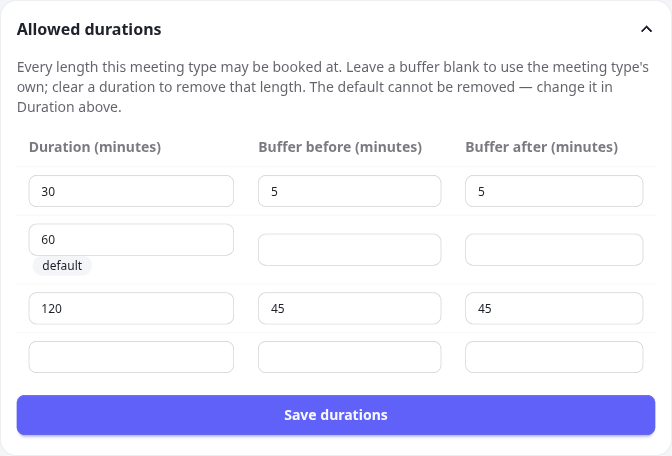
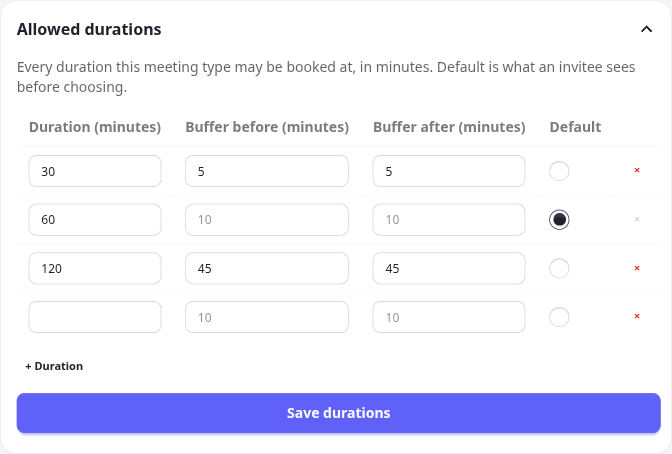
docs: the durations editor now adds rows and picks the default
The editor gained a + Duration button, a × per row, and a Default
radio, so the instructions describing save-and-come-back and
"change it in Basics" no longer match what the page does.

Says how to add and remove a row, that the greyed number in an empty
buffer box is the value that row will inherit, and that the default's
× is disabled because the default is always offered -- moving it
leaves the previous one on the list. Notes that a duration and its
default can be set in one save, and that the Basics Duration field is
the same value rather than a second setting.

Keeps the no-JS note: the spare blank row is how an owner without
JavaScript adds a duration, one per save.

diff --git a/docs-site/src/content/docs/usage/meeting-types.md b/docs-site/src/content/docs/usage/meeting-types.md
@@ -49,13 +49,19 @@ Invitees pick a length above the slot grid on the public booking page before cho
 
 ![Choosing a meeting length on the booking page](/calit/img/product-booking-durations.png)
 
-To add a length, fill in a duration (in minutes) on a blank row and save. To remove one, clear its duration field and save — the row disappears from the allowed set. Leave a row's buffer fields blank to have that length use the meeting type's own **Buffer before / after** instead of a value of its own.
+Use **+ Duration** to add a row and **×** to drop one, then save. A row whose duration is blank is ignored, so clearing a duration also removes that length. Leave a row's buffer fields blank and that duration uses the meeting type's own — the greyed number in the empty box is the value it will use.
+
+Without JavaScript the **+ Duration** button does nothing, so the table always renders one spare blank row: fill it in and save to add a duration, one per save.
 
 ### Setting the default
 
-The default is the **Duration** field in **Basics** — the same field a single-length meeting type has always had, shown in the [meeting type editor screenshot](#owner-console) and described under [Per-type settings](#per-type-settings). There is no separate "default" control in the durations table.
+The default is what an invitee sees before they choose, and what a plain link to the type's URL books. Pick it with the **Default** radio in the durations table, then save.
 
-That length is the one that renders before the invitee picks anything, and the one a plain link to the type's URL books. It is always part of the allowed set: the table shows it with a **default** badge, and clearing its duration field only drops that row's buffer overrides — the length itself stays. To *change* the default, edit the **Duration** field in Basics and save; to stop offering the old one, clear its row in the durations table.
+The default is always offered, which is why its row's **×** is disabled: moving the default to another row leaves the previous one on the list as an ordinary duration, so nothing is lost. To stop offering it too, clear its duration once it is no longer the default.
+
+Adding a duration and choosing it as the default can happen in one save — tick **Default** on a row you just filled in.
+
+The **Duration** field in **Basics** is the same value, and editing it there still works; they are two views of one setting rather than two settings.
 
 A buffer is a floor on how much padding surrounds a booking, never a setting that can be relaxed. So where two of them apply to the same host — the host's own override on a shared type, and the chosen length's override — the one actually applied is **whichever is larger**. Setting a narrow buffer on a length does not shorten a co-host's turnaround, and a wide host buffer does not override a wider one on the length.
 
